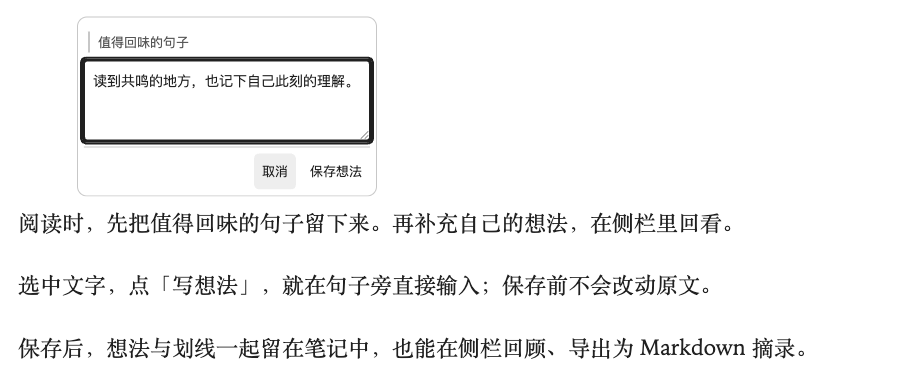
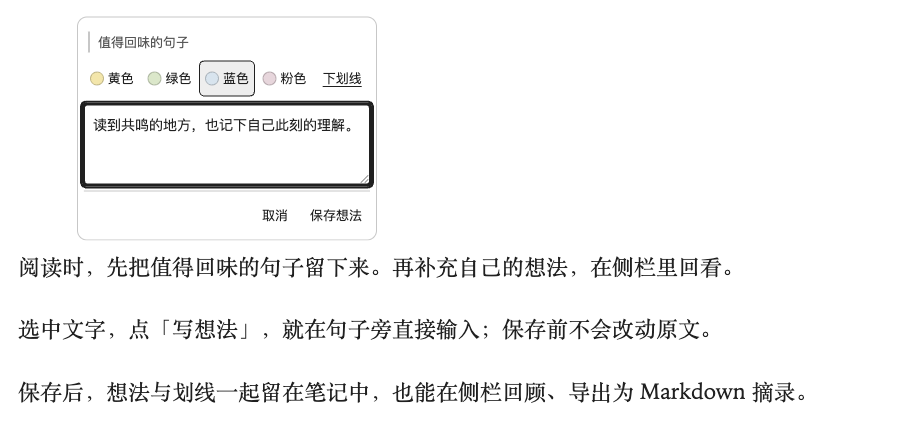
feat: choose annotation style while writing ideas

diff --git a/annotations/main.js b/annotations/main.js
@@ -1,4 +1,4 @@
-/* Inkstone Annotations 1.1.3. MIT License. Generated by build.mjs. */
+/* Inkstone Annotations 1.1.4. MIT License. Generated by build.mjs. */
 const annotationCore = (() => { const module = { exports: {} };
 'use strict';
 
@@ -837,6 +837,7 @@ function createAnnotationMenu({ doc, record, onStyle, onSaveNote, onDelete, onCl
   element.append(actions, error);
 
   let draft = record.note || '';
+  let draftStyle = { kind: record.kind, color: record.color };
   let busy = false;
   let disposed = false;
   let focusFrame = null;
@@ -904,28 +905,44 @@ function createAnnotationMenu({ doc, record, onStyle, onSaveNote, onDelete, onCl
     }
   }
 
-  function showActions() {
-    cancelFocus();
-    clearSaveHotkey();
-    actions.replaceChildren();
-    clearError();
+  function styleChoices(currentStyle, choose) {
     const styles = doc.createElement('div');
     styles.className = 'inkstone-annotation-menu-styles';
     styles.setAttribute('role', 'group');
     styles.setAttribute('aria-label', '标注样式');
+    const choices = [];
     for (const [color, label] of COLORS) {
-      const style = button(label, () => perform(() => onStyle({ kind: 'highlight', color })), 'inkstone-toolbar-style');
-      style.setAttribute('aria-pressed', String(record.kind === 'highlight' && record.color === color));
+      const option = { kind: 'highlight', color };
+      const style = button(label, () => choose(option), 'inkstone-toolbar-style');
       const dot = doc.createElement('span');
       dot.className = `inkstone-toolbar-dot inkstone-swatch-${color}`;
       dot.setAttribute('aria-hidden', 'true');
       style.prepend(dot);
       styles.append(style);
+      choices.push({ button: style, option });
     }
-    const underline = button('下划线', () => perform(() => onStyle({ kind: 'underline' })), 'inkstone-toolbar-style inkstone-toolbar-underline');
-    underline.setAttribute('aria-pressed', String(record.kind === 'underline'));
+    const underlineOption = { kind: 'underline' };
+    const underline = button('下划线', () => choose(underlineOption), 'inkstone-toolbar-style inkstone-toolbar-underline');
     styles.append(underline);
-    actions.append(styles);
+    choices.push({ button: underline, option: underlineOption });
+    function update(nextStyle) {
+      for (const choice of choices) {
+        const selected = choice.option.kind === nextStyle.kind
+          && (nextStyle.kind === 'underline' || choice.option.color === nextStyle.color);
+        choice.button.setAttribute('aria-pressed', String(selected));
+      }
+    }
+    update(currentStyle);
+    return { element: styles, update };
+  }
+
+  function showActions() {
+    cancelFocus();
+    clearSaveHotkey();
+    actions.replaceChildren();
+    clearError();
+    const styles = styleChoices(record, option => perform(() => onStyle(option)));
+    actions.append(styles.element);
 
     if (record.note) {
       const preview = doc.createElement('p');
@@ -949,13 +966,17 @@ function createAnnotationMenu({ doc, record, onStyle, onSaveNote, onDelete, onCl
     const quote = doc.createElement('p');
     quote.className = 'inkstone-annotation-menu-quote';
     quote.textContent = record.text || '';
+    const styles = styleChoices(draftStyle, option => {
+      draftStyle = { kind: option.kind, color: option.color ?? null };
+      styles.update(draftStyle);
+    });
     const input = doc.createElement('textarea');
     input.className = 'inkstone-annotation-menu-input';
     input.setAttribute('aria-label', '想法内容');
     input.placeholder = '写下你的想法…';
     input.value = draft;
     input.addEventListener('input', () => { draft = input.value; });
-    const save = () => perform(() => onSaveNote(input.value));
+    const save = () => perform(() => onSaveNote(input.value, { ...draftStyle }));
     input.addEventListener('keydown', event => {
       if ((event.metaKey || event.ctrlKey) && event.key === 'Enter' && !event.isComposing && !event.defaultPrevented) {
         event.preventDefault();
@@ -978,7 +999,7 @@ function createAnnotationMenu({ doc, record, onStyle, onSaveNote, onDelete, onCl
       }),
       button('保存想法', save),
     );
-    actions.append(quote, input, controls);
+    actions.append(quote, styles.element, input, controls);
     const cleanup = bindSaveHotkey?.(save);
     if (typeof cleanup === 'function') unbindSaveHotkey = cleanup;
     onResize?.();
@@ -1560,9 +1581,9 @@ module.exports = class InkstoneAnnotations extends Plugin {
         return () => this.app.keymap.popScope(scope);
       },
       onStyle: options => perform(() => this.commit(capture, options)),
-      onSaveNote: note => perform(() => {
+      onSaveNote: (note, style = record) => perform(() => {
         if (!capture.annotation && !note.trim()) throw new Error('请先写下想法，再保存。');
-        return this.commit(capture, { kind: record.kind, color: record.color, note });
+        return this.commit(capture, { kind: style.kind, color: style.color, note });
       }),
       onDelete: () => perform(() => this.removeAnnotation(capture.annotation.from, capture)),
       onClose: close,

diff --git a/theme.css b/theme.css
@@ -1,5 +1,5 @@
 /*
- * Inkstone / 墨读 1.3.3 — a quiet, monochrome reading theme.
+ * Inkstone / 墨读 1.3.4 — a quiet, monochrome reading theme.
  * Light mode only. Uses Obsidian's native font overrides and readable-line-width setting.
  * No network resources, scripts, or plugin dependencies. License: MIT.
  */

diff --git a/scripts/package.py b/scripts/package.py
@@ -139,7 +139,7 @@ python3 scripts/install.py --vault "/你的笔记库路径" --update --theme-onl
 
 将 `themes/Inkstone` 复制到笔记库的 `.obsidian/themes/`，将 `plugins/inkstone-annotations` 复制到 `.obsidian/plugins/`。重新打开 Obsidian 后，在「设置 → 外观」选择 Inkstone 和浅色配色，并手动启用插件。使用自定义配置文件夹时，将 `.obsidian` 替换为实际文件夹名。
 
-将 [划线与备注示例](examples/划线与备注示例.md) 复制到笔记库可体验彩色高亮、灰阶线型和脚注备注。选中文字后点「写想法」，直接在原文旁的小浮层中输入并保存；点击已有标记，可在小菜单中改颜色、编辑想法或删除标注。侧栏「编辑」和综合编辑命令仍提供完整面板。
+将 [划线与备注示例](examples/划线与备注示例.md) 复制到笔记库可体验彩色高亮、灰阶线型和脚注备注。选中文字后点「写想法」，直接在原文旁的小浮层中选样式、输入备注，点击保存后一起生效；点击已有标记，可在小菜单中直接改颜色、编辑想法或删除标注。侧栏「编辑」和综合编辑命令仍提供完整面板。
 """.encode("utf-8")
 
 

diff --git a/annotations/README.md b/annotations/README.md
@@ -1,6 +1,6 @@
 # 墨读标注 · Inkstone Annotations
 
-为 Obsidian 笔记提供下划线、四色高亮、脚注备注、当前笔记标注侧栏与摘录导出。插件版本为 **1.1.3**，配套 Inkstone 主题版本为 **1.3.3**，最低 Obsidian 版本为 **1.10.6**。
+为 Obsidian 笔记提供下划线、四色高亮、脚注备注、当前笔记标注侧栏与摘录导出。插件版本为 **1.1.4**，配套 Inkstone 主题版本为 **1.3.4**，最低 Obsidian 版本为 **1.10.6**。
 
 标注直接保存在当前 Markdown 中，兼容旧版 Inkstone 标记。插件只使用本地 Obsidian API，不调用网络，不需要账户或其他插件；实时预览使用 Obsidian 自带的 CodeMirror，用户无需安装依赖。Inkstone 主题仍是纯 CSS，可独立使用。
 
@@ -26,8 +26,8 @@
 
 1. 在笔记中选中同一源代码行内的普通文字。屏幕自动折行不影响选择，不要跨越手动换行。
 2. 只需划线时，点击快捷条的「划线」，沿用最近的样式和颜色；要换样式，点击相邻箭头「划线样式」，选择下划线或黄、绿、蓝、粉色高亮，即可保存。
-3. 需要备注时，在选中文字后点击「写想法」，直接在原文旁的小浮层中查看原文预览并输入多行想法。
-4. 点击「保存想法」，或按 `Cmd+Enter`（macOS）、`Ctrl+Enter`（Windows/Linux）。新普通选区会保存为下划线和脚注；已有标注保留颜色与划线样式。「取消」不会写入笔记。
+3. 需要备注时，在选中文字后点击「写想法」，直接在原文旁的小浮层中查看原文预览、输入多行想法，并选择黄、绿、蓝、粉色高亮或下划线。新普通选区默认下划线；已有标注默认当前样式，不改样式时会保留原有标记。
+4. 点击「保存想法」，或按 `Cmd+Enter`（macOS）、`Ctrl+Enter`（Windows/Linux），一次保存选定的样式与脚注备注。输入期间切换样式不丢失文字，也不提前写入笔记；「取消」不写入任何样式或备注。
 
 「写想法」就是添加备注，作为原生脚注保存在当前文件文末。点击正文脚注编号可跳转到备注，脚注处的返回链接可回到正文。
 
@@ -40,7 +40,7 @@
 点击阅读视图或实时预览中显示的现有高亮、下划线，会在原文旁弹出小菜单；标记获得键盘焦点后，按 `Enter` 或空格也能打开。
 
 - 直接选择黄、绿、蓝、粉色或下划线，立即修改整条标注。当前样式显示选中提示。
-- 点击「写想法」，在小菜单内查看原文预览并输入多行备注；已有备注时显示「编辑想法」。点击「保存想法」或按 `Cmd+Enter` / `Ctrl+Enter` 保存，保留现有颜色和划线样式。「取消」不会写入笔记。
+- 点击「写想法」，在小菜单内查看原文预览、输入多行备注并选择样式；已有备注时显示「编辑想法」。默认选中当前样式，不改时会保留原有标记。此处切换样式只更新草稿，保留已输入的文字；点击「保存想法」或按 `Cmd+Enter` / `Ctrl+Enter` 后，样式与备注一起生效。「取消」不写入任何样式或备注。
 - 点击「删除标注」移除标记并保留原文。
 
 点击外部、按 `Esc`、滚动或切换笔记会收起小菜单。侧栏的「编辑」与阅读视图右键的编辑入口仍打开完整「编辑标注」面板，可同时修改样式与备注。
@@ -67,7 +67,7 @@
 
 ## 快捷条、阅读设置与翻页
 
-有效选区后会显示快捷条，操作时保留选区。首层提供「复制」「划线」「写想法」和「更多」；划线旁的箭头展开带文字的小色点与下划线选项，选择后立即保存。「划线」沿用最近的样式和颜色，已有标记则保留现有样式；「写想法」直接打开含原文预览与多行输入框的小浮层，已有标记还可从「更多」移除。直接点击正文中的现有标记，会打开[标注小菜单](#编辑或移除已有标注)。
+有效选区后会显示快捷条，操作时保留选区。首层提供「复制」「划线」「写想法」和「更多」；划线旁的箭头展开带文字的小色点与下划线选项，选择后立即保存。「划线」沿用最近的样式和颜色，已有标记则保留现有样式；「写想法」直接打开含原文预览、多行输入框和样式选择的小浮层，点击保存后样式与备注一起生效。已有标记还可从「更多」移除。直接点击正文中的现有标记，会打开[标注小菜单](#编辑或移除已有标注)。
 
 快捷条字号独立于正文，位于选区上方，空间不足时移到下方，也提供触控入口。按 `Esc` 或滚动可收起；在插件设置中关闭「快捷标注条」后，仍可使用右键菜单和命令面板。
 

diff --git a/INSTALL.md b/INSTALL.md
@@ -1,6 +1,6 @@
 # 安装与更新 Inkstone 墨读
 
-Inkstone **主题 1.3.3** 是纯 CSS，**标注插件 1.1.3** 为可选组件。主题可单独安装；标注、侧栏、摘录导出、快捷条和按屏翻页需要启用插件。最低 Obsidian 版本为 **1.10.6**。当前通过 GitHub Release 或本仓库安装，尚未上架 Obsidian 社区目录。
+Inkstone **主题 1.3.4** 是纯 CSS，**标注插件 1.1.4** 为可选组件。主题可单独安装；标注、侧栏、摘录导出、快捷条和按屏翻页需要启用插件。最低 Obsidian 版本为 **1.10.6**。当前通过 GitHub Release 或本仓库安装，尚未上架 Obsidian 社区目录。
 
 操作前关闭目标笔记库或退出 Obsidian，避免应用退出时覆盖刚更新的文件。请先用 Obsidian 打开过该笔记库，使配置目录存在。以下路径都指**笔记库目录**。
 
@@ -14,7 +14,7 @@ Inkstone **主题 1.3.3** 是纯 CSS，**标注插件 1.1.3** 为可选组件。
 
 ### 1. 获取文件
 
-下载 [最新 Release](https://github.com/bufan1024/obsidian-inkstone/releases/latest) 中的主题与标注合集，本版本文件名为 `Inkstone-Reading-Kit-1.3.3.zip`。解压后进入其中含有 `scripts/` 的目录。
+下载 [最新 Release](https://github.com/bufan1024/obsidian-inkstone/releases/latest) 中的主题与标注合集，本版本文件名为 `Inkstone-Reading-Kit-1.3.4.zip`。解压后进入其中含有 `scripts/` 的目录。
 
 也可以克隆源码：
 
@@ -127,8 +127,8 @@ python3 scripts/install.py --vault "/你的笔记库路径" --update --theme-onl
 
 - 调整「设置 → 外观」字号，正文应随之变化；已有 CSS 显式设置 `--inkstone-font-size` 时，请先移除该变量。
 - 选中同一源代码行内的普通文字，快捷条应显示「复制」「划线」「写想法」「更多」；点击划线旁的箭头可选四色高亮或下划线，选择后立即保存。已有标记与脚注的简单段落可以继续标注。
-- 点击选区快捷条的「写想法」，应在原文旁的小浮层中显示原文预览与多行输入框。点击「保存想法」或按 `Cmd+Enter` / `Ctrl+Enter`，新普通选区保存为下划线与脚注，已有标注保留原样式；「取消」不写入笔记。命令「墨读：标注与备注」「墨读：添加备注」及右键综合编辑入口仍打开完整面板。
-- 点击现有高亮或下划线，应在原文旁弹出小菜单，显示当前样式；点颜色或下划线可立即修改。「写想法／编辑想法」在小菜单内输入并保存备注，「删除标注」保留原文。点击外部、按 `Esc` 或滚动可收起。侧栏「编辑」和右键编辑入口仍打开完整面板。
+- 点击选区快捷条的「写想法」，应在原文旁的小浮层中显示原文预览、多行输入框与四色／下划线样式选择。新普通选区默认下划线，已有标注默认当前样式，都可在保存前修改。切换样式不丢失输入文字，也不提前写入笔记；点击「保存想法」或按 `Cmd+Enter` / `Ctrl+Enter` 后，样式和脚注备注一起生效。「取消」不写入任何样式或备注。命令「墨读：标注与备注」「墨读：添加备注」及右键综合编辑入口仍打开完整面板。
+- 点击现有高亮或下划线，应在原文旁弹出小菜单，显示当前样式；首层点颜色或下划线会立即修改。进入「写想法／编辑想法」后，样式和备注则在点击保存后一起生效；未改样式时沿用原有标记。「删除标注」保留原文。点击外部、按 `Esc` 或滚动可收起。侧栏「编辑」和右键编辑入口仍打开完整面板。
 - 实时预览在光标离开标注后显示实际标记，进入范围时显示源码；源码模式保持原样。
 - 执行「墨读：打开标注侧栏」可筛选、定位、编辑或删除当前笔记标注；「导出当前笔记摘录」应新建文件，并带有来源链接。
 - 「墨水屏显示」将四色变为灰底与不同线型；插件设置提供行高、行宽预设和快捷条开关。

diff --git a/tests/native/README.md b/tests/native/README.md
@@ -29,6 +29,6 @@ INKSTONE_CDP=http://127.0.0.1:19227 node tests/native/verify-upgrade.cjs
 
 也可在脚本后添加单个用例名，如 `reading-entities-and-embeds`。脚本会拒绝操作名称不同的笔记库；测试完成后退出测试实例。构建后需先将新运行文件更新到测试库，才能验证新版本。
 
-覆盖连续标注、实体与 emoji、已有标注小菜单（直接改色、删除、浮层内想法、键盘与过期快照保护）、Live Preview 与源码切换、侧栏、摘录导出、字号和阅读预设、按屏翻页，以及选区「写想法」的小浮层、取消/空白零写入、三种模式下的选区准确性和单次事务，及新版工具条的文字动作、色点、延迟事件、备注焦点、窄屏避让和键盘操作。复制用例只 mock 专用测试页的 Clipboard API，不读写真实系统剪贴板。输出逐项 PASS/FAIL，任何失败都会返回非零退出状态。
+覆盖连续标注、实体与 emoji、已有标注小菜单（直接改色、删除、浮层内想法、键盘与过期快照保护）、Live Preview 与源码切换、侧栏、摘录导出、字号和阅读预设、按屏翻页，以及选区「写想法」的小浮层、取消/空白零写入、三种模式下的选区准确性和单次事务，想法浮层内的样式草稿与保存后一起生效，以及新版工具条的文字动作、色点、延迟事件、备注焦点、窄屏避让和键盘操作。复制用例只 mock 专用测试页的 Clipboard API，不读写真实系统剪贴板。输出逐项 PASS/FAIL，任何失败都会返回非零退出状态。
 
 这些检查使用桌面原生应用。390px 布局和合成触控事件不代表手机原生应用或实体墨水屏实测。测试中使用的 Obsidian 内部接口仅用于验收，不打包进插件。
